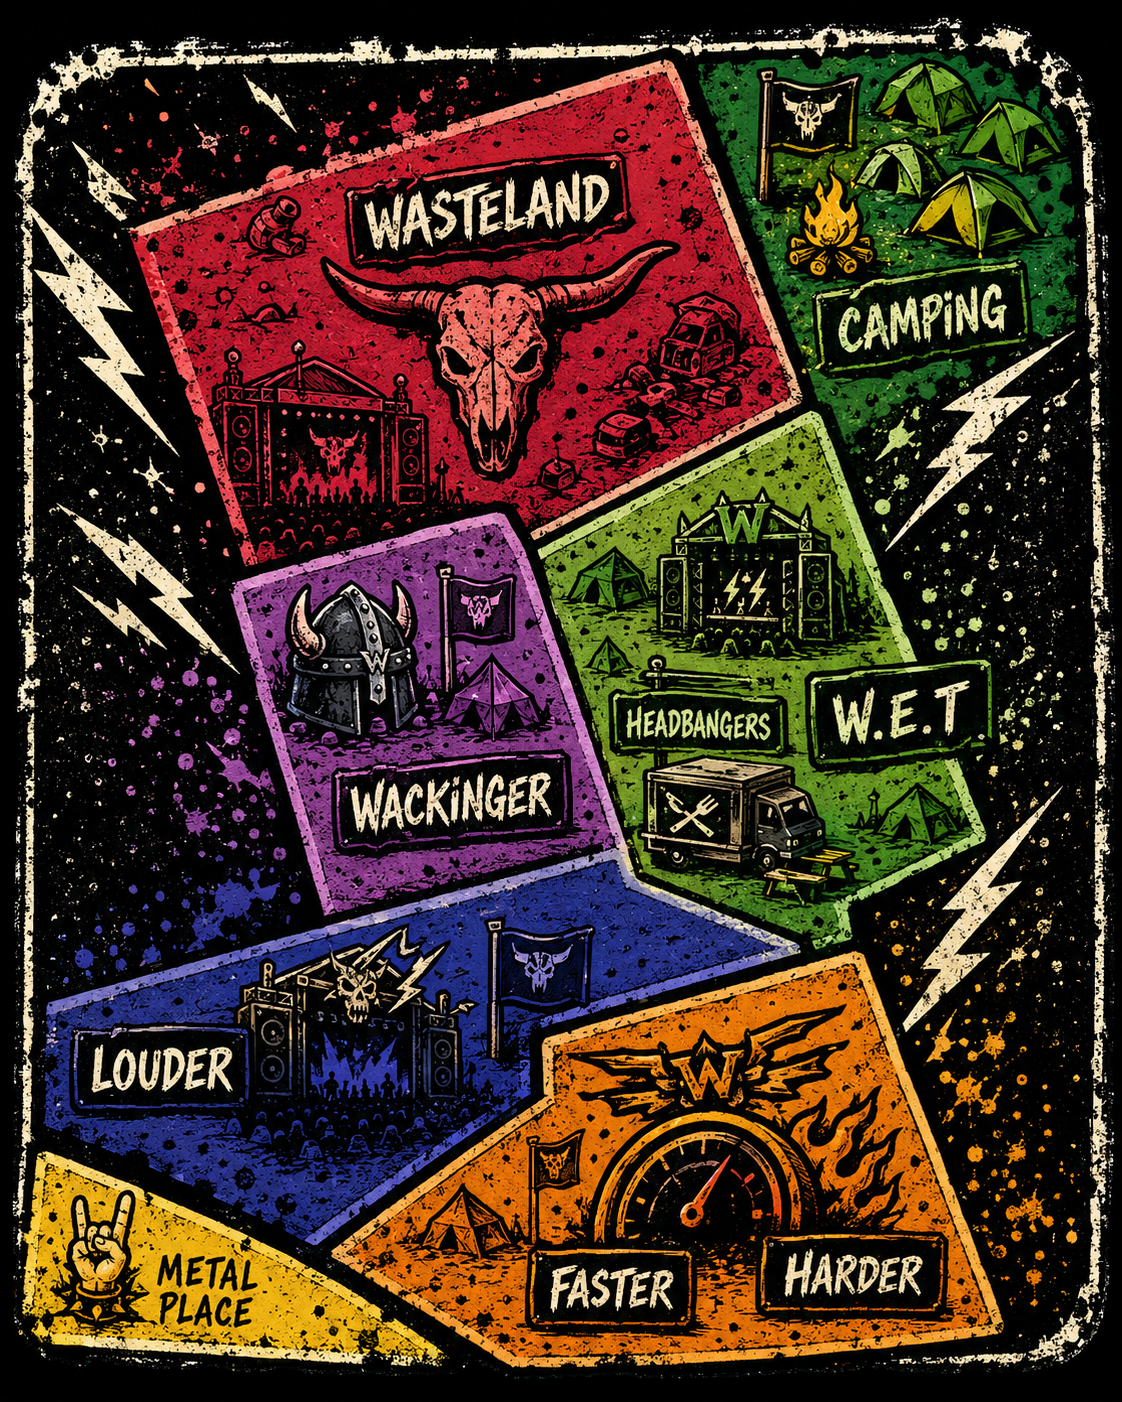
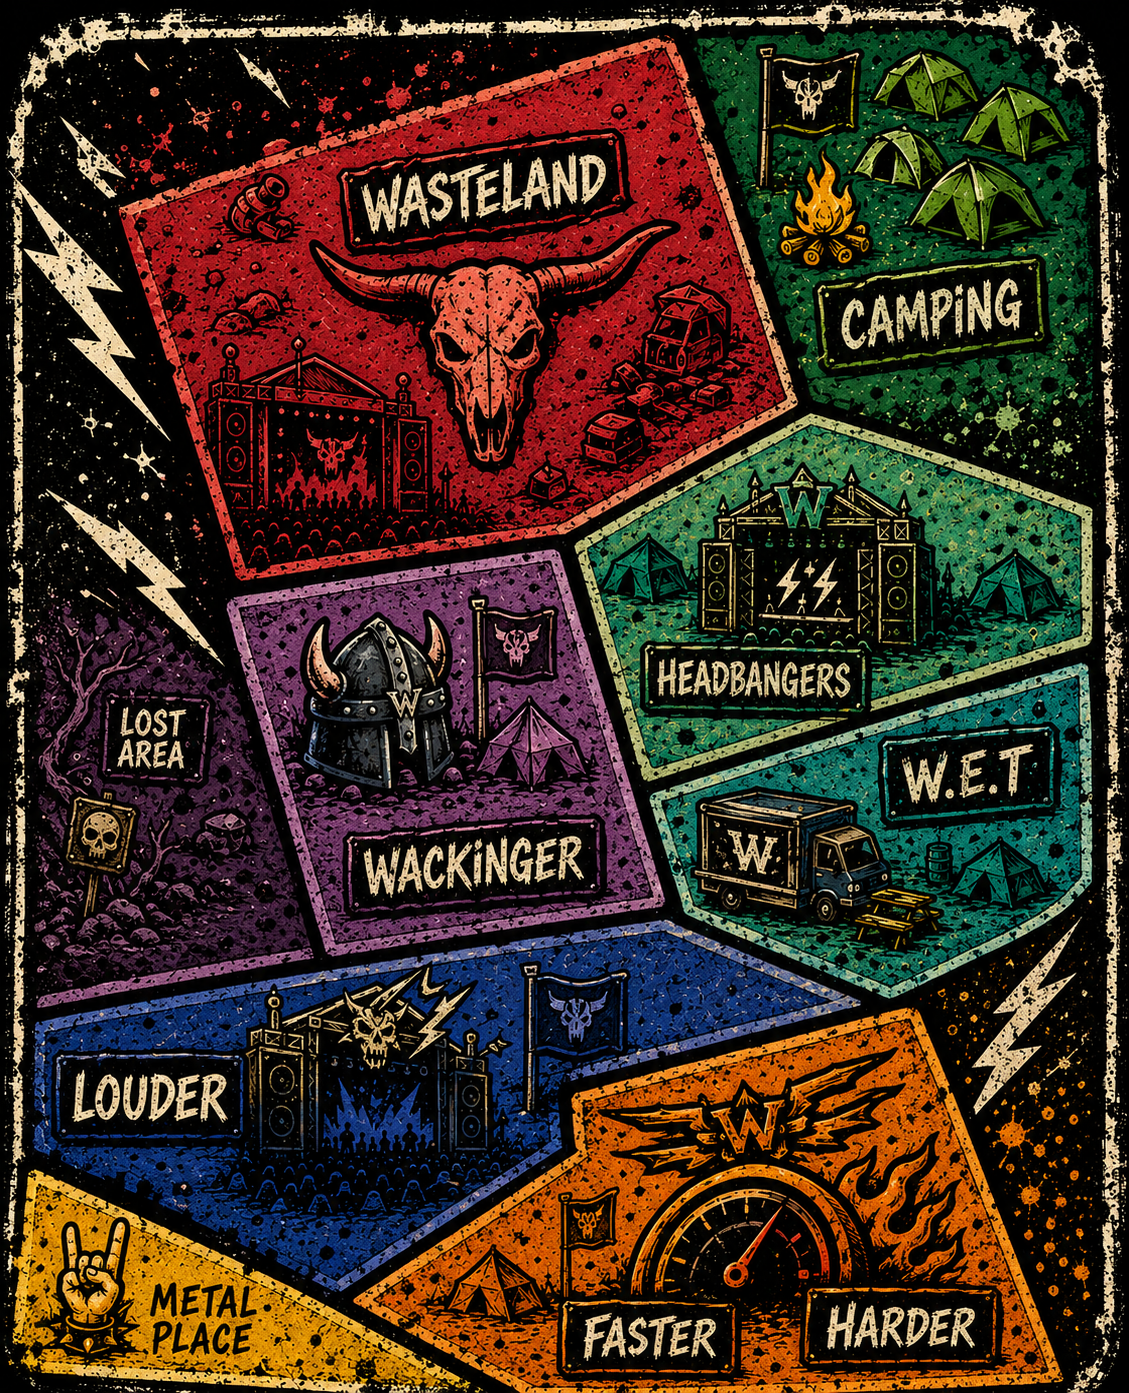
update of plans and image

diff --git a/PHASES.md b/PHASES.md
@@ -11,7 +11,7 @@ Current phase and upcoming work for Viralatas Metaleiros. See CLAUDE.md for proj
 
 ### Phase 35 — Festival minimap (live vira-lata positions)
 
-**Status:** Planned — design locked + grilled (7 refinements 2026-05-29), not started.
+**Status:** Planned — design locked + grilled (7 refinements 2026-05-29), broken into subphases 35.A–E, not started.
 **Design spec:** `docs/superpowers/specs/2026-05-29-festival-minimap-design.md`
 **Product spec:** `FUTURE_IDEAS.md` § Idea 6
 **Map asset:** `public/infield_map.png` (already exists).
@@ -40,6 +40,46 @@ Current phase and upcoming work for Viralatas Metaleiros. See CLAUDE.md for proj
 **Non-goals:** GPS / geolocation, navigation, distance accuracy, manual check-in, privacy opt-out, drag/zoom, redrawing the asset.
 
 **Acceptance criteria** → see design spec.
+
+---
+
+#### Subphases
+
+Ordered for incremental shipping; each is a clean commit. Dependencies noted.
+
+**35.A — Asset optimization** _(first; no app code)_
+- **Goal:** make `public/infield_map.png` lighter/faster so it can precache without punishing first load.
+- **Source today:** `1122 × 1402`, **3.1 MB**. Display size is ≤ ~440 px CSS wide (≤ ~880 px @2x), so the source is far larger than needed.
+- **Do:** downscale to a sane max (~1000 px wide) + lossy palette quantize + lossless squeeze, **in place, same path/format (PNG)**. (Tooling note: no `pngquant`/`oxipng`/`magick` on this machine yet — install one, or use `sips` to downscale + a Node/`sharp` pass.)
+- **Acceptance:** file **≤ ~800 KB** (aim lower); no perceptible quality loss at display size; appears in the generated precache manifest after `npm run build`.
+- **Deps:** none. Independent, revertible (git-tracked).
+
+**35.B — Zone config + placement core + calibration** _(pure logic + dev harness)_
+- **Goal:** the single source of zone geometry and the pure placement function, tuned against the (optimized) artwork.
+- **New files:** `src/components/map/minimapZones.ts` (`MINIMAP_ZONES` seeded from the calibrate prototype, `stageToZone`, `groupKindToZone`), `src/services/minimapPlacement.ts` (`buildPlacements(crewGroups, zones, selfUserId)` — deterministic spaced layout, `isSelf`, self ordered last), `src/services/userColor.ts` (`colorForUserId`).
+- **Dev-only:** wire a deletable `?calibrate` overlay to tune boxes (visual sign-off), per `prototypes/minimap-calibrate.html`.
+- **Tests:** `minimapPlacement.test.ts` + `userColor.test.ts` (group→zone, in-box, N distinct coords, friend rules, Jungle→Wasteland, unknown→Elsewhere, lost→left-margin, determinism, color stability).
+- **Acceptance:** unit tests green; zone boxes visually signed off via `?calibrate`; no Supabase reads.
+- **Deps:** 35.A (tune against final artwork).
+
+**35.C — Map page + overlay + route** _(the visible feature)_
+- **Goal:** the `/map` screen renders live dots over the map.
+- **New files:** `src/pages/MapPage.tsx` (`useSocialSnapshot(useNow(30_000))` + `useAuth` for `selfUserId`, derive placements, offline note, back nav), `src/components/map/MinimapOverlay.tsx` (presentation-only: `<img>` + absolute avatar `<button>`s, tap-to-toggle name pill, self highlight).
+- **Touches:** `src/App.tsx` (`<Route path="/map">` behind `PrivateRoute`).
+- **Acceptance:** dots at fractional coords scale at 375 px → desktop; self gold-ring on top; tap toggles pill; works offline; "Elsewhere" never on a stage box; image-load failure degrades gracefully.
+- **Deps:** 35.B.
+
+**35.D — Entry button on `/now` + i18n** _(small, mostly independent)_
+- **Goal:** reach `/map` from `/now`.
+- **Touches:** `src/pages/RightNowPage.tsx` (**Variant A header glyph, glyph F "Pin + bolt"** beside the timestamp, links to `/map`), `src/i18n/{br,en,es,de}.json` (button label "vira-latas" not "crew", page title, offline-note keys).
+- **Acceptance:** button visible in `/now` header at 375 px; navigates to `/map`; all 4 locales present; hover→accent.
+- **Deps:** 35.C (target route must exist).
+
+**35.E — Docs + design system + phase close** _(wrap-up)_
+- **Goal:** sync institutional memory and close.
+- **Do:** wiki (architecture/domain-model/routes as needed) + new `docs/ai-wiki/flows/festival-minimap.md`; `docs/ai-wiki/changelog.md` dated entry; `public/vira-lata-ds.html` minimap section (zones, dot, self highlight, glyph F, offline note); flip `FUTURE_IDEAS.md` Idea 6 status; **remove the `?calibrate` dev harness**; append to `phases-history.md`; single commit + push.
+- **Acceptance:** build + tests green; harness gone; all three memory surfaces updated.
+- **Deps:** 35.A–D.
 
 ---
 